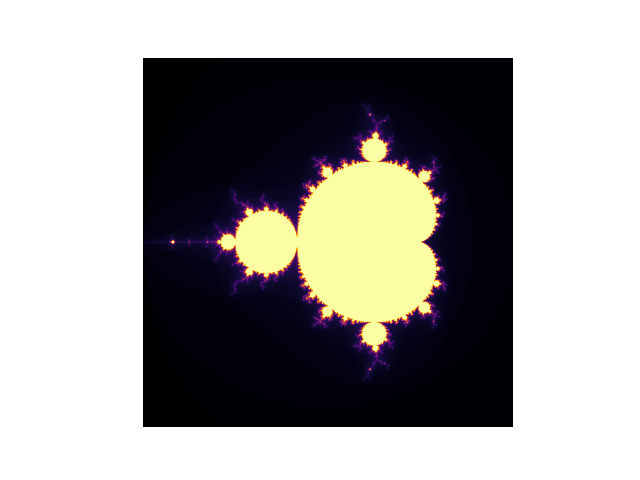
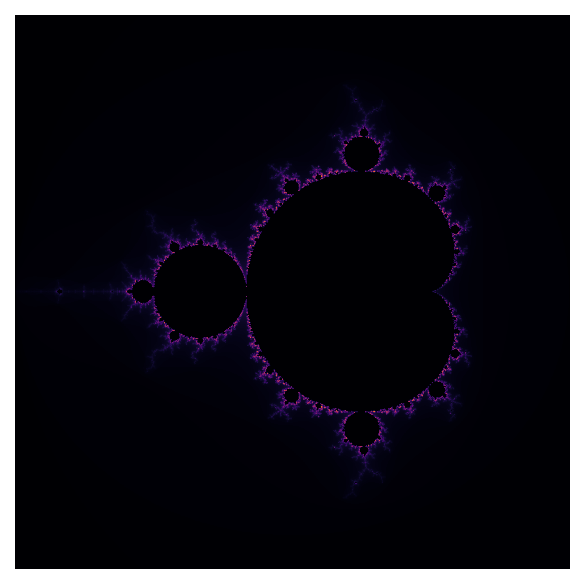
vectorize generate, add comments, update readme, add preview

diff --git a/mandelbrot.py b/mandelbrot.py
@@ -1,5 +1,6 @@
 from math import log
 
+import matplotlib
 import matplotlib.pyplot as plt
 import numpy as np
 
@@ -21,29 +22,49 @@ def mandelbrot(c, max_iter):
     return max_iter
 
 
-def generate(width, height, max_iter, x_min=-2, x_max=1, y_min=-1.5, y_max=1.5):
+# This function is vectorized - x, y are 1D arrays with np.meshgrid you can transform them to 2D Arrays
+# C is used to compute the complex numbers
+# Z is used to create a 2d array of zeroes
+# Generates all pixels, coordinates and checks which 'escaped'
 
-    result = np.zeros((height, width))
 
-    for row in range(height):
-        for col in range(width):
-            x = x_min + col / (width - 1) * (x_max - x_min)
-            y = y_min + row / (height - 1) * (y_max - y_min)
-            c = complex(x, y)
+def generate_fast(width, height, max_iter, x_min=-2, x_max=1, y_min=-1.5, y_max=1.5):
 
-            result[row][col] = mandelbrot(c, max_iter)
+    x = np.linspace(x_min, x_max, width)
+    y = np.linspace(y_min, y_max, height)
 
-    return result
+    X, Y = np.meshgrid(x, y)
+
+    C = X + 1j * Y
+
+    Z = np.zeros_like(C)
+
+    iterations = np.zeros_like(C, dtype=float)
+
+    mask = np.ones(C.shape, dtype=bool)
+
+    # iterate max_iter times, only updating points that haven't escaped
+    for i in range(max_iter):
+        Z[mask] = Z[mask] ** 2 + C[mask]
+        escaped = abs(Z) > 2
+
+        iterations[escaped & mask] = i
+
+        mask[escaped] = False
+
+    return iterations
 
 
 def renderer(width, height, max_iter, x_min, x_max, y_min, y_max):
 
-    view = generate(width, height, max_iter, x_min, x_max, y_min, y_max)
+    view = generate_fast(width, height, max_iter, x_min, x_max, y_min, y_max)
     plt.imshow(view, cmap="inferno")
 
     plt.axis("off")
+    plt.savefig("preview.png", bbox_inches="tight", dpi=150)
     plt.show()
 
 
+# renderer here for when you run with py mandelbrot.py will show a preview image
 if __name__ == "__main__":
-    renderer(800, 800, 256, -1.77, -1.73, -0.02, 0.02)
+    renderer(800, 800, 256, -2, 1, -1.5, 1.5)

diff --git a/zoom.py b/zoom.py
@@ -2,7 +2,7 @@ import matplotlib.cm as cm
 import numpy as np
 from manim import *
 
-from mandelbrot import generate, mandelbrot
+from mandelbrot import generate_fast, mandelbrot
 
 # lerp = linear interpolation
 # Formula: value = start + t * (end - start)
@@ -16,28 +16,28 @@ def lerp(start, end, t):
     return value
 
 
-# start the Manim scene:
+# start the Manim scene
 
 
 class FractalScene(Scene):
     def construct(self):
 
-        width = 200
-        height = 200
+        width = 800
+        height = 800
         max_iter = 256
-        frames = 10
+        frames = 120
         start_coord = (-2, 1, -1.5, 1.5)
-        end_coord = (-0.7485, -0.7385, 0.1264, 0.1364)
+        end_coord = (-0.7438, -0.7432, 0.1308, 0.1314)
 
         prev_image = None
 
-        for f in range(0, 100):
+        for f in range(0, frames):
             x_min = lerp(start_coord[0], end_coord[0], f / frames)
             x_max = lerp(start_coord[1], end_coord[1], f / frames)
             y_min = lerp(start_coord[2], end_coord[2], f / frames)
             y_max = lerp(start_coord[3], end_coord[3], f / frames)
 
-            view = generate(width, height, max_iter, x_min, x_max, y_min, y_max)
+            view = generate_fast(width, height, max_iter, x_min, x_max, y_min, y_max)
 
             colored = (cm.inferno(view / max_iter) * 255).astype(np.uint8)
 
@@ -45,8 +45,11 @@ class FractalScene(Scene):
                 self.remove(prev_image)
 
             image = ImageMobject(colored)
-            image.scale_to_fit_height(config.frame_height)
+            image.set_height(config.frame_height)
             self.add(image)
+            image.move_to(ORIGIN)
             self.wait(1 / 30)
 
             prev_image = image
+
+        self.play(FadeOut(image), run_time=2)

diff --git a/README.md b/README.md
@@ -6,14 +6,28 @@ Teaching myself computational mathematics and fractals are cool
 ## This is the definition: 
 z = z^2 + c - all points that go to infinity are not part of the set, all points that never go to infinity are part of the set. This is an interesting property because the fractal is bounded, meaning, it is finite in size or area and infinite in its perimeter
 
+## new things added: 
+added a zoom animation into seahorse valley using manim. also vectorized the 
+generate_fast() function with numpy since it was processing one pixel at a time which 
+was too slow, now it processes the whole grid at once. 
+
 ## You run this by..
 downloading the code, and running it through your terminal, here's how that goes:
 
-## Ensure you have matplotlib and numpy installed
+## Dependencies
+Ensure you have the following installed: 
+
 ```
-pip install numpy matplotlib
+pip install numpy matplotlib manim
 ```
-## To run this, use the command from your command terminal:
+## To run this - from terminal:
+To render the mandelbrot set:
+
 ```
 python mandelbrot.py
+```
+To run the zoom animation:
+
+```
+py -m manim zoom.py FractalScene
 ```